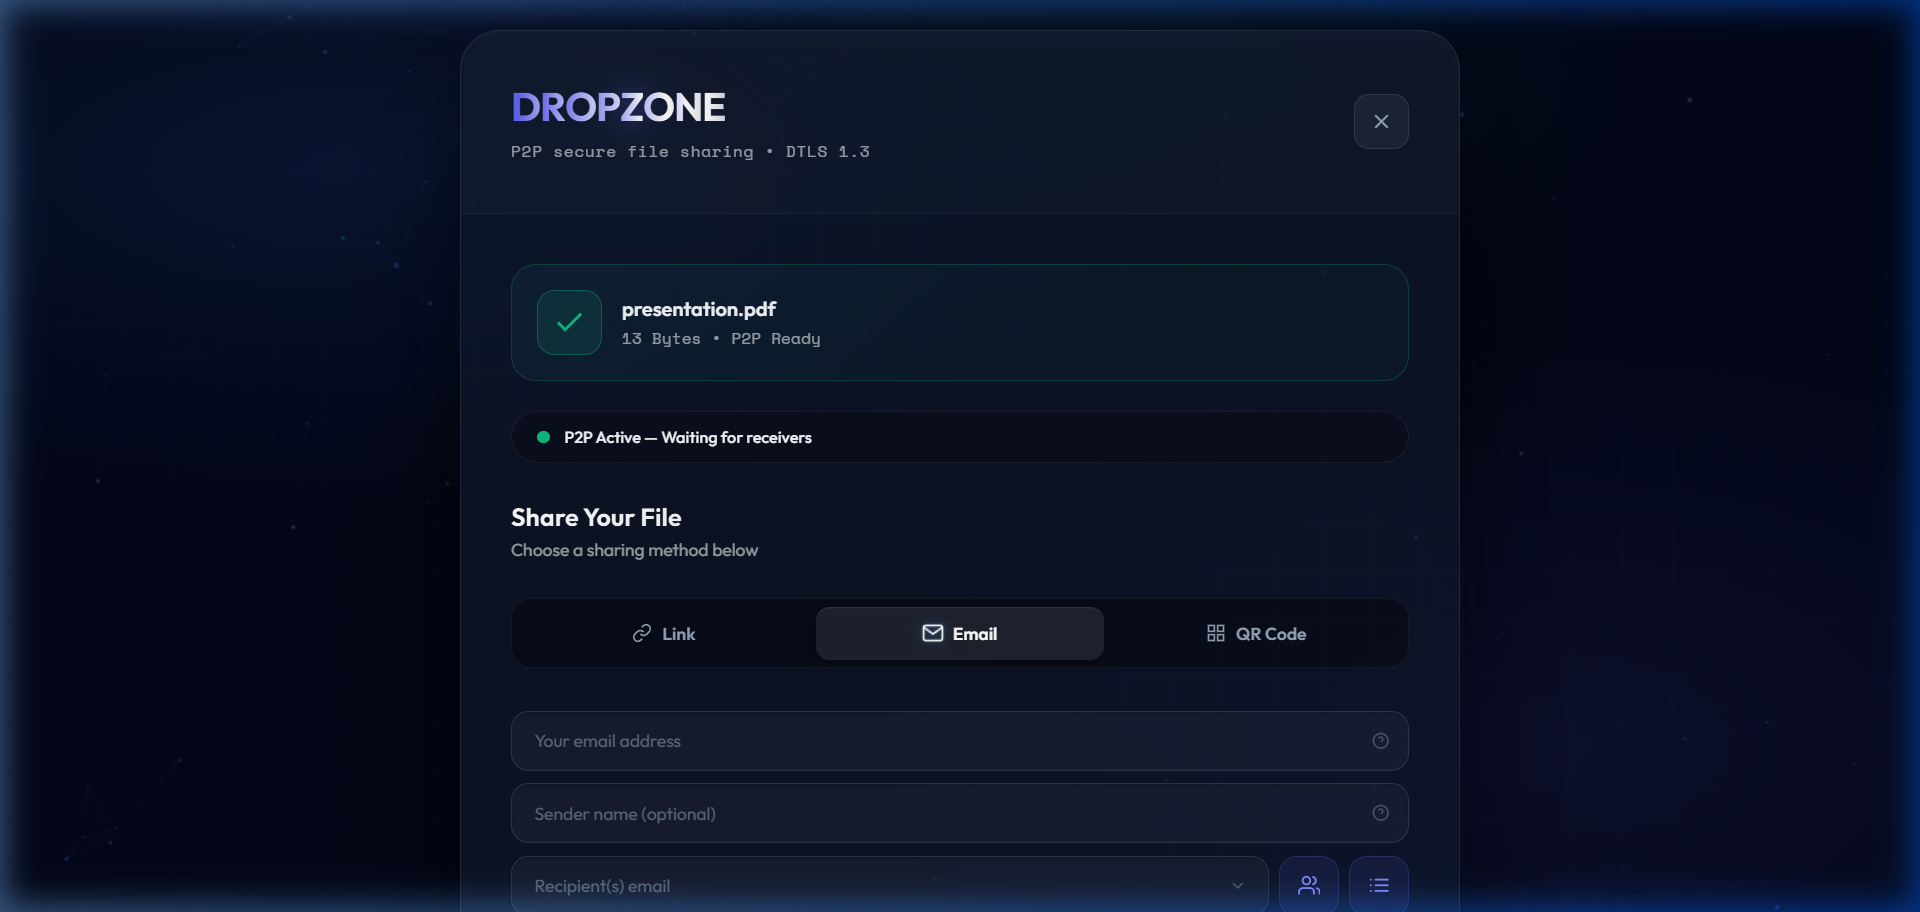
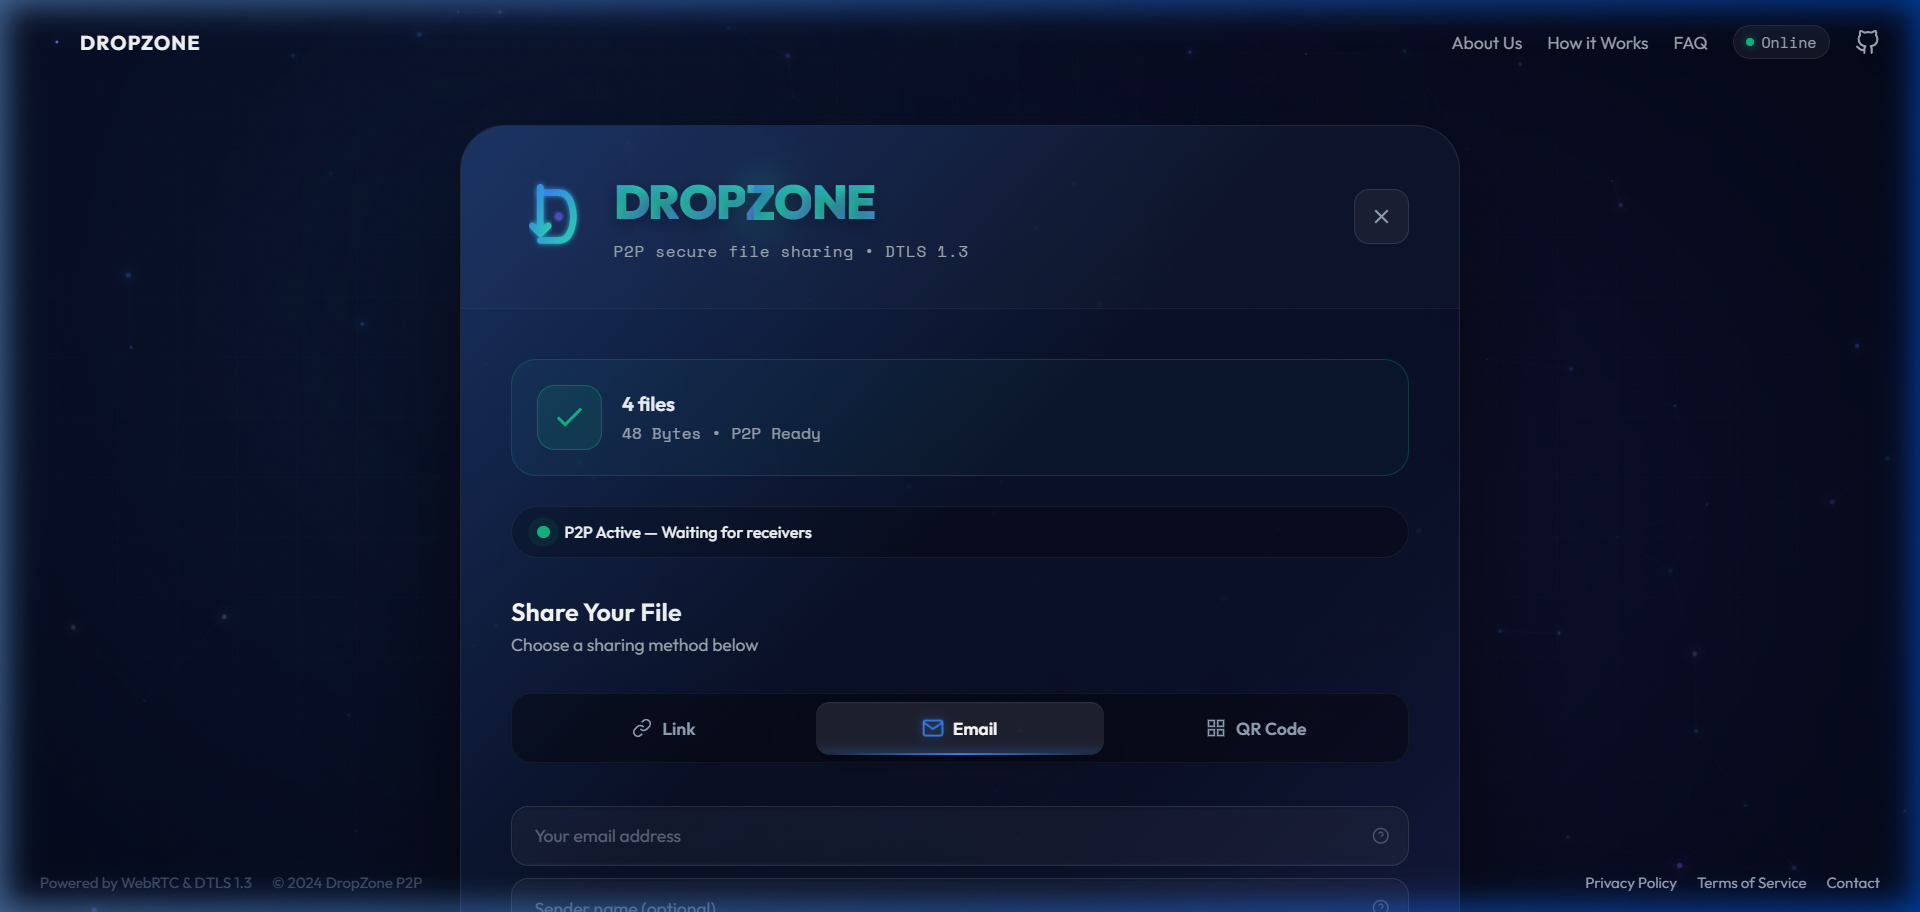
docs: use actual live deployment screenshots for premium neural previews

diff --git a/README.md b/README.md
@@ -14,11 +14,25 @@
 ## 📺 Website Preview
 
 <div align="center">
-  <img src="./assets/main.png" width="400" alt="Main Interface">
-  <img src="./assets/email.png" width="400" alt="Email Sharing">
+  <p><strong>Main Interface & Neural P2P Protocol</strong></p>
+  <img src="./assets/main.png" width="850" alt="DropZone Main Interface">
+  <br><br>
+  <p><strong>Real-time Sharing Dashboard & Handshake Visualization</strong></p>
+  <img src="./assets/sharing.png" width="850" alt="Sharing Dashboard">
+  <br><br>
+  <div style="display: flex; justify-content: center; gap: 20px; flex-wrap: wrap;">
+    <div style="text-align: center;">
+      <p><strong>Email Invitation</strong></p>
+      <img src="./assets/email.png" width="415" alt="Email Sharing">
+    </div>
+    <div style="text-align: center;">
+      <p><strong>Quick Pick Modal</strong></p>
+      <img src="./assets/quickpick.png" width="415" alt="Quick Pick Modal">
+    </div>
+  </div>
   <br>
-  <img src="./assets/quickpick.png" width="400" alt="Quick Pick Modal">
-  <img src="./assets/qr.png" width="400" alt="QR Generation">
+  <p><strong>Interactive Neural Protocol Diagram</strong></p>
+  <img src="./assets/diagram.png" width="850" alt="Neural P2P Diagram">
 </div>
 
 > [!TIP]
